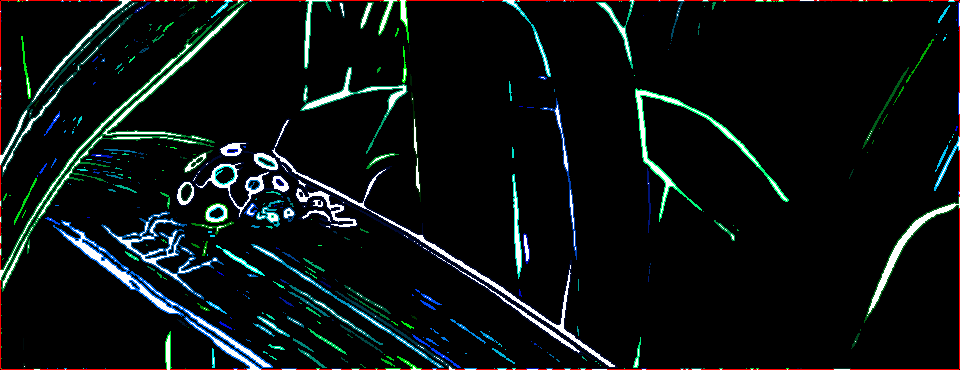
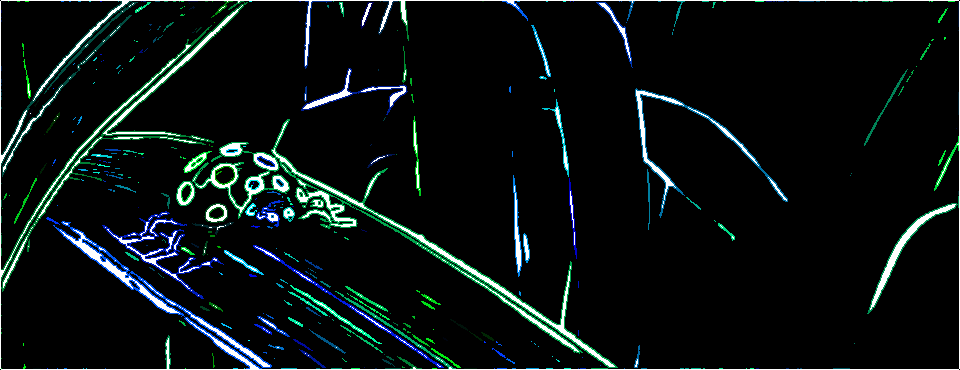
adding edge length command

diff --git a/Image_Edge_Detection/main.cpp b/Image_Edge_Detection/main.cpp
@@ -9,6 +9,7 @@
 
 static Color channel = monochrome;
 static int threshold = 89;
+static int edge_length = 89;
 static char* file = "test.png";
 static char output[256];
 
@@ -17,15 +18,16 @@ static void set_config(int argc, char* argv[])
     int option_index;
     static struct option options[] =
     {
-        {"green",     no_argument,       0, 'g'},
-        {"red",       no_argument,       0, 'r'},
-        {"blue",      no_argument,       0, 'b'},
-        {"file",      required_argument, 0, 'f'},
-        {"threshold", required_argument, 0, 't'},
+        {"green",      no_argument,       0, 'g'},
+        {"red",        no_argument,       0, 'r'},
+        {"blue",       no_argument,       0, 'b'},
+        {"file",       required_argument, 0, 'f'},
+        {"threshold",  required_argument, 0, 't'},
+        {"edge-length",required_argument, 0, 'e'},
         {0, 0, 0, 0}
     };
 
-    while ((option_index = getopt_long(argc, argv, "rgbf:t:", options, NULL)) != -1)
+    while ((option_index = getopt_long(argc, argv, "rgbf:t:e:", options, NULL)) != -1)
     {
         switch (option_index){
             case 'g':
@@ -42,6 +44,9 @@ static void set_config(int argc, char* argv[])
                 break;
             case 't':
                 threshold = strtol(optarg, NULL, 10);
+                break;
+            case 'e':
+                edge_length = strtol(optarg, NULL, 10);
                 break;
             default:
                 std::cout<< "\nInvalid option. Program exiting.\n";
@@ -116,7 +121,7 @@ int main(int argc, char* argv[])
 		my_png->Encode_To_Disk(output);
 		std::cout<< "Disconnected Graphs Detected.\n";
 
-        my_object_detector->Highlight_Largest_Graphs(20);
+        my_object_detector->Highlight_Largest_Graphs(edge_length);
         filename_append(file, "_disconnected_2", output);
 		my_png->Encode_To_Disk(output);
 		std::cout<< "Disconnected Graphs Thresholded.\n";

diff --git a/Image_Edge_Detection/object_detector.cpp b/Image_Edge_Detection/object_detector.cpp
@@ -40,9 +40,9 @@ void Object_Detector::Determine_Edges()
 
 	Pixel* index_pix = new Pixel;
 
-	for (int x = 0; x < (m_image->m_width); x++)
+	for (int x = 1; x < (m_image->m_width-1); x++)
 	{
-		for (int y = 0; y < (m_image->m_height); y++)
+		for (int y = 1; y < (m_image->m_height-1); y++)
 		{
 			m_edges[x][y] = Is_Edge(x, y, index_pix);
 
